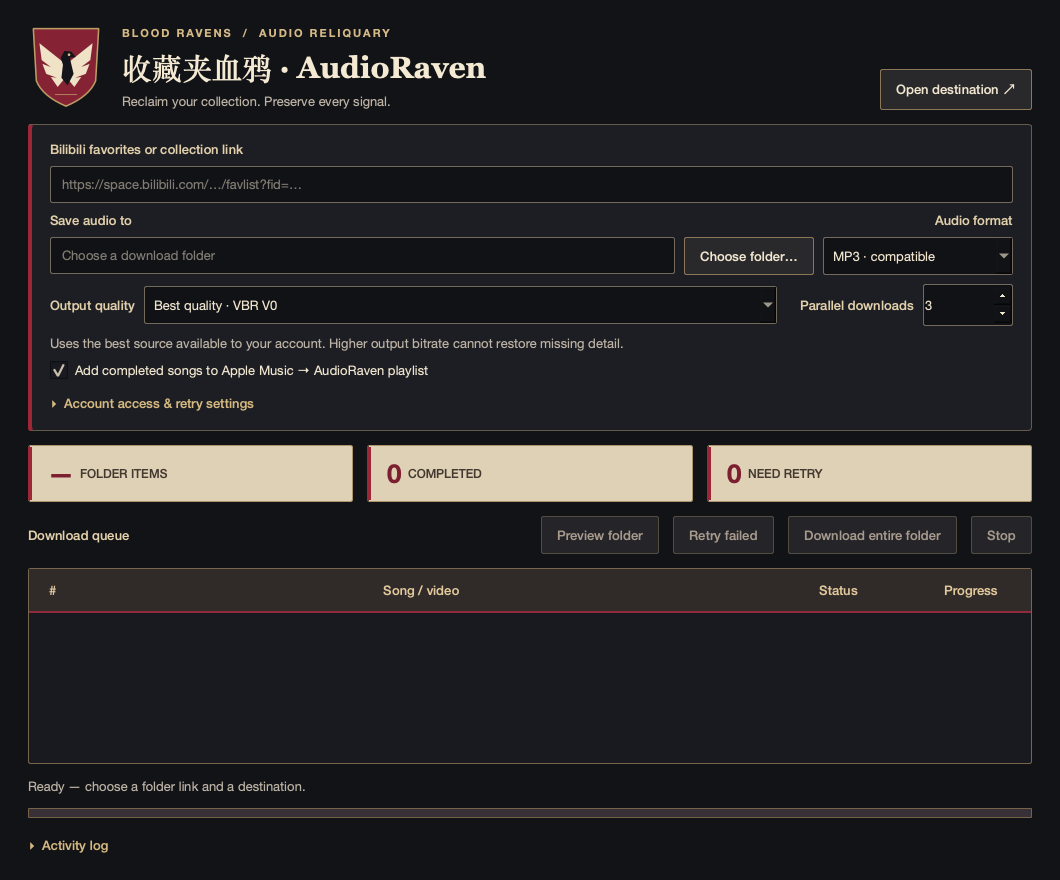
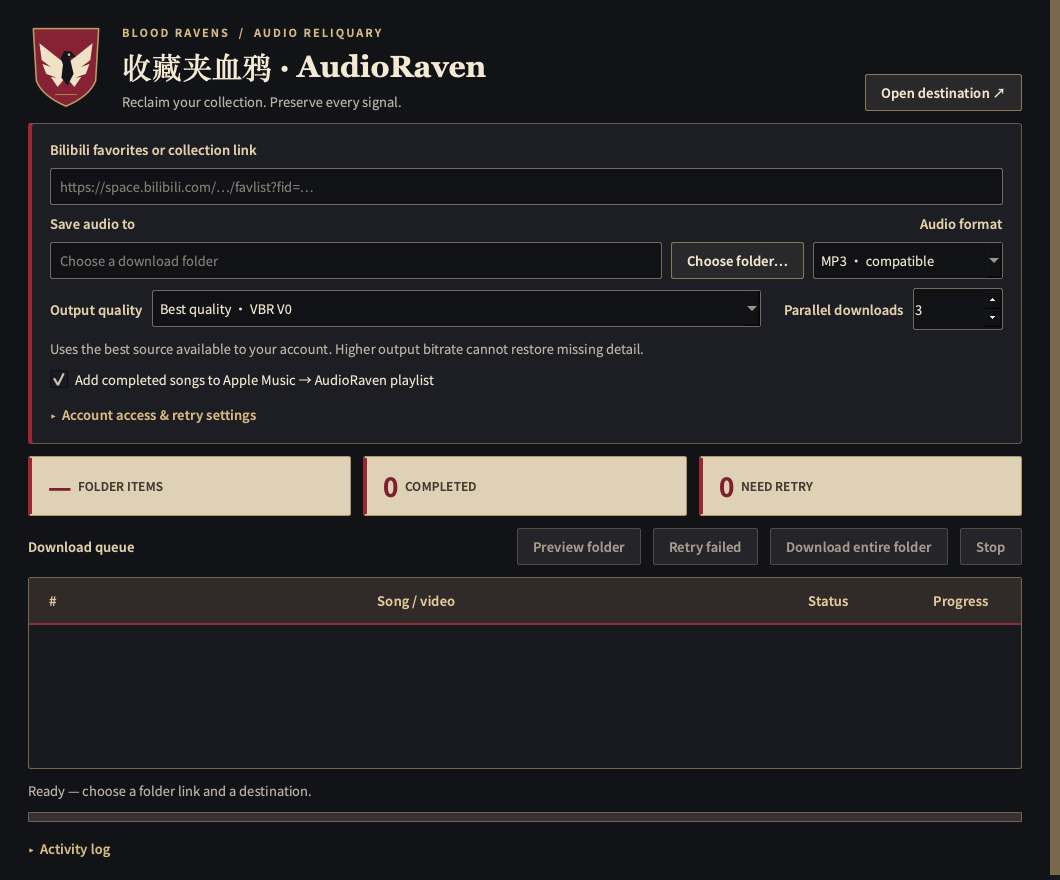
Bundle bilingual interface fonts and validate native Windows rendering

Changed region(s): [[0.0, 0.0, 1.0, 1.0], [0.1245, 0.0307, 0.467, 0.1227]]

diff --git a/audioraven/app.py b/audioraven/app.py
@@ -7,7 +7,7 @@ from concurrent.futures import ThreadPoolExecutor
 from pathlib import Path
 
 from PySide6.QtCore import QPointF, QSettings, QStandardPaths, Qt, QThread, QUrl, Signal
-from PySide6.QtGui import QColor, QDesktopServices, QFont, QPainter, QPainterPath, QPalette, QPen, QPolygonF
+from PySide6.QtGui import QColor, QDesktopServices, QFont, QFontDatabase, QPainter, QPainterPath, QPalette, QPen, QPolygonF
 from PySide6.QtWidgets import (
     QApplication, QCheckBox, QComboBox, QFileDialog, QFrame, QGridLayout, QHBoxLayout,
     QHeaderView, QLabel, QLineEdit, QListView, QMainWindow, QMessageBox, QPlainTextEdit,
@@ -19,6 +19,7 @@ from audioraven.backend import BatchRunner, Settings, Track
 from audioraven import DISPLAY_NAME, __version__
 
 PLATFORM = sys.platform
+_FONT_FAMILY = None
 
 STYLE = """
 QMainWindow, QWidget#root { background: #121317; color: #f0e5cf; }
@@ -30,14 +31,14 @@ QLabel#archiveMark { color: #d4b985; font-size: 11px; padding: 6px 0px; }
 QFrame#card { background: #1d1e23; border: 1px solid #655b4d; border-left: 4px solid #9e2737; border-radius: 3px; }
 QFrame#statCard { background: #dfd1b6; border: 1px solid #ad956b; border-left: 4px solid #9e2737; border-radius: 2px; }
 QLabel#field { color: #e2d0ab; font-weight: 600; }
-QLineEdit, QComboBox, QSpinBox { background: #111216; border: 1px solid #746a5b; border-radius: 2px; padding: 9px; selection-background-color: #73313d; selection-color: #fff4df; }
+QLineEdit, QComboBox, QSpinBox { background: #111216; border: 1px solid #746a5b; border-radius: 2px; padding: 7px; selection-background-color: #73313d; selection-color: #fff4df; }
 QLineEdit:focus, QComboBox:focus, QSpinBox:focus { border: 1px solid #d5b678; background: #19191e; }
 QLineEdit:disabled, QComboBox:disabled, QSpinBox:disabled { background: #232329; color: #a89e90; border-color: #4d4841; }
 QComboBox QAbstractItemView { background: #202126; color: #f4e9d2; border: 1px solid #a58c60; selection-background-color: #813140; selection-color: #fff4df; outline: 0; padding: 4px; }
 QComboBox QAbstractItemView::item { min-height: 30px; padding: 5px 10px; color: #f4e9d2; background: #202126; }
 QComboBox QAbstractItemView::item:selected { background: #813140; color: #fff4df; }
 QToolTip { background: #e9dbc0; color: #211e1b; border: 1px solid #a58c60; padding: 7px; }
-QPushButton { background: #29282b; border: 1px solid #8c7858; border-radius: 2px; padding: 10px 15px; font-weight: 600; }
+QPushButton { background: #29282b; border: 1px solid #8c7858; border-radius: 2px; padding: 8px 15px; font-weight: 600; }
 QPushButton:hover { background: #3b2b2e; border-color: #dbc18c; }
 QPushButton:pressed { background: #602b36; }
 QPushButton#primary { background: #9d2436; color: #fff3dd; border: 1px solid #d07476; }
@@ -76,7 +77,15 @@ def apply_theme(app):
         palette.setColor(QPalette.ColorGroup.Disabled, role, QColor("#a89e90"))
     app.setPalette(palette)
     app.setStyleSheet(STYLE)
-    app.setFont(QFont("Segoe UI" if PLATFORM == "win32" else "Helvetica Neue", 13))
+    global _FONT_FAMILY
+    if _FONT_FAMILY is None:
+        resource_root = Path(getattr(sys, '_MEIPASS', Path(__file__).resolve().parent.parent))
+        font_id = QFontDatabase.addApplicationFont(str(resource_root / 'assets/fonts/NotoSansSC.ttf'))
+        families = QFontDatabase.applicationFontFamilies(font_id)
+        if font_id < 0 or not families:
+            raise RuntimeError('The bundled interface font could not be loaded. Extract the complete application package.')
+        _FONT_FAMILY = families[0]
+    app.setFont(QFont(_FONT_FAMILY, 13))
 
 
 def readable_combo():
@@ -230,7 +239,7 @@ class Window(QMainWindow):
         self.setCentralWidget(scroll)
         layout = QVBoxLayout(root)
         layout.setContentsMargins(28, 24, 28, 22)
-        layout.setSpacing(14)
+        layout.setSpacing(12)
 
         top = QHBoxLayout()
         top.setSpacing(18)
@@ -414,7 +423,7 @@ class Window(QMainWindow):
     def stat(parent, label, value):
         card = QFrame(objectName="statCard")
         box = QHBoxLayout(card)
-        box.setContentsMargins(16, 12, 16, 12)
+        box.setContentsMargins(16, 10, 16, 10)
         number = QLabel(value, objectName="statValue")
         box.addWidget(number)
         box.addWidget(QLabel(label, objectName="statLabel"))

diff --git a/audioraven/smoke.py b/audioraven/smoke.py
@@ -19,12 +19,16 @@ def main(arguments: list[str]) -> int:
         import imageio_ffmpeg
         from PySide6.QtCore import QCoreApplication, QEvent, QSettings, QTimer
         from PySide6.QtWidgets import QApplication
+        from PySide6.QtGui import QFontMetrics
         from .app import Window, apply_theme
         from .backend import BatchRunner, Settings
         with tempfile.TemporaryDirectory(prefix='audioraven-smoke-') as temporary:
             work = Path(temporary)
             app = QApplication.instance() or QApplication(['AudioRaven smoke test'])
             apply_theme(app)
+            metrics = QFontMetrics(app.font())
+            if not all(metrics.inFontUcs4(ord(character)) for character in 'AudioRaven收藏夹血鸦'):
+                raise RuntimeError('The interface font is missing required English or Chinese glyphs')
             window = Window(QSettings(str(work / 'preferences.ini'), QSettings.Format.IniFormat))
             window.show()
             app.processEvents()
@@ -61,7 +65,7 @@ def main(arguments: list[str]) -> int:
             QCoreApplication.sendPostedEvents(None, QEvent.Type.DeferredDelete)
             QTimer.singleShot(0, app.quit)
             app.exec()
-            result.update(ok=True, gui=True, mp3=True, m4a=True, worker=True)
+            result.update(ok=True, gui=True, fonts=True, mp3=True, m4a=True, worker=True)
     except Exception as exc:
         result['error_type'] = type(exc).__name__
     result_file.write_text(json.dumps(result, indent=2) + '\n', encoding='utf-8')

diff --git a/scripts/fetch_font.py b/scripts/fetch_font.py
@@ -1,0 +1,34 @@
+"""Fetch the build-time UI font from its pinned, checksum-verified source."""
+import hashlib
+import json
+import os
+from pathlib import Path
+import tempfile
+from urllib.request import urlopen
+
+
+def main():
+    root = Path(__file__).resolve().parents[1]
+    directory = root / 'assets' / 'fonts'
+    manifest = json.loads((directory / 'font.json').read_text(encoding='utf-8'))
+    target = directory / 'NotoSansSC.ttf'
+    if target.is_file() and hashlib.sha256(target.read_bytes()).hexdigest() == manifest['sha256']:
+        print('Interface font verified.')
+        return
+    with urlopen(manifest['url'], timeout=60) as response:
+        data = response.read()
+    if hashlib.sha256(data).hexdigest() != manifest['sha256']:
+        raise RuntimeError('Interface font checksum does not match the pinned source.')
+    descriptor, temporary = tempfile.mkstemp(prefix='font-', suffix='.tmp', dir=directory)
+    try:
+        with os.fdopen(descriptor, 'wb') as output:
+            output.write(data)
+        os.replace(temporary, target)
+    finally:
+        if os.path.exists(temporary):
+            os.unlink(temporary)
+    print('Downloaded and verified the interface font.')
+
+
+if __name__ == '__main__':
+    main()

diff --git a/build_app.py b/build_app.py
@@ -30,7 +30,7 @@ for package in ('yt_dlp', 'imageio_ffmpeg'):
     binaries += package_binaries
     hiddenimports += package_imports
 datas += copy_metadata('yt-dlp')
-datas += [({notices}, 'notices'), ({licenses}, 'notices/licenses')]
+datas += [({notices}, 'notices'), ({licenses}, 'notices/licenses'), ('assets/fonts', 'assets/fonts')]
 a = Analysis(
     ['main.py'], pathex=['.'], binaries=binaries, datas=datas,
     hiddenimports=hiddenimports, hookspath=[], hooksconfig={{}},
@@ -74,6 +74,7 @@ def main() -> int:
     if sys.platform not in {'darwin', 'win32'}:
         parser.error('Build on macOS or Windows. Cross-compiling is not supported.')
     root = Path(__file__).resolve().parent
+    subprocess.run([sys.executable, str(root / 'scripts' / 'fetch_font.py')], check=True)
     dist = root / 'dist'
     with tempfile.TemporaryDirectory(prefix='audioraven-build-') as temporary:
         stage = Path(temporary) / 'source'

diff --git a/scripts/collect_licenses.py b/scripts/collect_licenses.py
@@ -41,6 +41,7 @@ def main():
     if not python_license.is_file():
         raise RuntimeError('Python license text not found; release packaging stopped')
     shutil.copyfile(python_license, output / 'Python-LICENSE.txt')
+    shutil.copyfile(root / 'assets/fonts/OFL.txt', output / 'NotoSansSC-OFL.txt')
     (output / 'VERSIONS.txt').write_text('\n'.join(versions) + '\n', encoding='utf-8')
     ffmpeg = imageio_ffmpeg.get_ffmpeg_exe()
     records = []

diff --git a/THIRD_PARTY_NOTICES.md b/THIRD_PARTY_NOTICES.md
@@ -13,6 +13,7 @@ the MIT license does not relicense Python, Qt, FFmpeg, or any other dependency.
 | imageio-ffmpeg | Locate bundled converter | BSD-2-Clause; https://github.com/imageio/imageio-ffmpeg |
 | FFmpeg and enabled libraries | Separate converter executable | Build-specific LGPL/GPL terms; https://ffmpeg.org/legal.html |
 | PyInstaller bootloader | Application launcher | GPL with the PyInstaller bootloader exception; https://github.com/pyinstaller/pyinstaller |
+| Noto Sans SC | Bundled English/Chinese interface font | SIL Open Font License 1.1; https://github.com/google/fonts/tree/main/ofl/notosanssc |
 
 Exact installed versions and license texts are collected into `licenses/` during
 packaging, including metadata notices from transitive dependencies. Qt remains

diff --git a/THIRD_PARTY_NOTICES.zh-CN.md b/THIRD_PARTY_NOTICES.zh-CN.md
@@ -12,6 +12,7 @@ AudioRaven 原创代码采用 MIT 许可证。依赖保留各自条款；MIT 不
 | imageio-ffmpeg | 定位附带转换器 | BSD-2-Clause；https://github.com/imageio/imageio-ffmpeg |
 | FFmpeg 及启用的库 | 独立转换器进程 | 取决于具体构建的 LGPL / GPL 条款；https://ffmpeg.org/legal.html |
 | PyInstaller 引导程序 | 启动打包应用 | GPL 及 PyInstaller 引导程序例外；https://github.com/pyinstaller/pyinstaller |
+| Noto Sans SC | 随包提供的中英文字体 | SIL Open Font License 1.1；https://github.com/google/fonts/tree/main/ofl/notosanssc |
 
 打包时将实际安装版本和许可证原文收集到 `licenses/`，其中包括间接依赖的声明。第三方许可证原文保持完整，不以本说明代替。
 

diff --git a/docs/COMPATIBILITY.md b/docs/COMPATIBILITY.md
@@ -12,6 +12,10 @@ package and runs the packaged executable to verify the GUI, both audio codecs,
 and the frozen subprocess protocol. Tests use synthetic media and fake network
 boundaries; they do not prove a real account's folder is accessible.
 
+The application bundles Noto Sans SC for English/Chinese glyph coverage. Packaged
+checks require those glyphs to be present; Windows CI renders with the native
+Windows Qt platform plugin rather than relying on a fontless offscreen backend.
+
 No app can guarantee every machine or every future Bilibili response. Release
 only when native checks pass, and record any remaining manual checks in the
 release notes. Windows Stop/timeout uses a kill-on-close Job Object to terminate

diff --git a/docs/COMPATIBILITY.zh-CN.md b/docs/COMPATIBILITY.zh-CN.md
@@ -8,6 +8,8 @@
 
 每个平台还会原生打包并运行发行版可执行文件，检查界面、MP3 / M4A 转换和打包后的子进程协议。测试使用合成媒体和模拟网络，不验证某个真实账号的收藏夹权限。
 
+应用随包提供 Noto Sans SC 中英文字体，打包检查会验证所需字形。Windows CI 使用原生 Windows Qt 平台插件渲染，避免无系统字体的离屏后端产生方框文字。
+
 无法保证所有电脑和 B 站未来的接口行为。原生检查通过后才发行，并在发行说明中注明未完成的手工检查。Windows 使用关闭时终止的 Job Object 管理下载进程及 FFmpeg 子进程；macOS 使用进程组。
 
 ## 常见问题

diff --git a/docs/DEVELOPMENT.md b/docs/DEVELOPMENT.md
@@ -6,6 +6,11 @@ Use Python 3.12 for release CI. The local source also runs on Python 3.14. Insta
 `requirements-dev.txt` into a virtual environment; runtime and top-level build
 dependencies are pinned. Run `python -m pytest -q` before packaging.
 
+Run `python scripts/fetch_font.py` once before source launches or tests. It fetches
+Noto Sans SC from a pinned upstream commit and verifies SHA-256. The font binary
+is excluded from Git and included in native app packages; the build script fetches
+it automatically when needed. Packaged apps need no font download at runtime.
+
 ```sh
 python build_app.py --archive
 python scripts/check_package.py

diff --git a/docs/DEVELOPMENT.zh-CN.md b/docs/DEVELOPMENT.zh-CN.md
@@ -4,6 +4,8 @@
 
 发行 CI 使用 Python 3.12，本地源码也可使用 Python 3.14。在虚拟环境中安装 `requirements-dev.txt`；运行时和顶层构建依赖均锁定版本。打包前运行 `python -m pytest -q`。
 
+从源码启动或测试前，先运行一次 `python scripts/fetch_font.py`。脚本从固定的上游提交获取 Noto Sans SC 并校验 SHA-256。字体二进制不提交到 Git，会随原生应用发行；构建脚本会在需要时自动获取。打包应用运行时无需下载字体。
+
 ```sh
 python build_app.py --archive
 python scripts/check_package.py

diff --git a/CHANGELOG.zh-CN.md b/CHANGELOG.zh-CN.md
@@ -6,6 +6,7 @@
 
 - 应用更名为“收藏夹血鸦 · AudioRaven”，添加英文和简体中文文档。
 - 添加暗红、骨白和黄铜色界面，以及可适应高分屏的矢量乌鸦徽记。
+- 随包提供 OFL 许可的中英文字体，并检查打包应用所需字形。
 - 添加 Windows 原生打包、ICO 图标、系统字体和“音乐”目录适配。
 - Windows 使用关闭时终止的 Job Object 管理工作进程与 FFmpeg。
 - 自动导入 Apple Music 和 Safari 登录仅在 macOS 提供。
